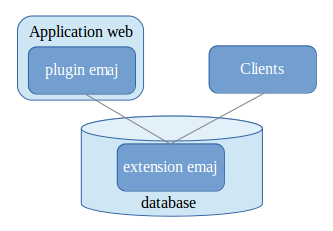
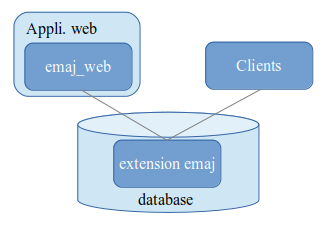
Doc: remove from the documentation all parts dealing with the use of the now deprecated phpPgAdmin plugin. Just mention its existence and the pointer to the related repo.

diff --git a/docs/fr/webUsage.rst b/docs/fr/webUsage.rst
@@ -1,22 +1,10 @@
-Utilisation des clients web
-===========================
-
-Accès à E-Maj dans l'interface phpPgAdmin
------------------------------------------
-
-Une fois connecté à une base de données dans laquelle l'extension E-Maj a été installée, et avec un rôle qui dispose des droits suffisants (super-utilisateur, *emaj_adm* ou *emaj_viewer*), une nouvelle icône rouge apparaît à droite dans la barre d'icônes horizontale de la base. Bien sûr, le schéma *emaj* figure dans la liste des schémas.
-
-Dans l'arborescence de gauche, un nouvel objet E-Maj apparaît également. Son ouverture permet de visualiser la liste des groupes de tables créés et d'accéder à l'un d'eux.
-
-.. figure:: images/ppa01.png
-   :align: center
-
-   Figure 1a – *phpPgAdmin* : connexion à une base de données où E-Maj est installé.
+Utilisation d'Emaj_web
+======================
 
 Accès à Emaj_web
 ----------------
 
-La connexion à une base de données est similaire à *phpPgAdmin*.
+Pour se connecter à une base de données, sélectionnez l’instance souhaitée dans l’arborescence de gauche et remplissez les identifiants et mots de passe de connexion. Plusieurs connexions peuvent rester ouvertes simultanément.
 
 Une fois connecté à une base de données dans laquelle l'extension E-Maj a été installée, et avec un rôle qui dispose des droits suffisants (super-utilisateur, *emaj_adm* ou *emaj_viewer*), l’icône rouge à droite dans la barre d'icônes horizontale de la base permet d’accéder aux fonctions spécifiques d’E-Maj.
 
@@ -25,7 +13,7 @@ Dans l'arborescence de gauche, l’objet E-Maj apparaît également. Son ouvertu
 .. figure:: images/web01.png
 	:align: center
 
-	Figure 1b – *Emaj_web* : connexion à une base de données où E-Maj est installé.
+	Figure 1 – Connexion à une base de données où E-Maj est installé.
 
 
 Liste des groupes de tables

diff --git a/docs/fr/webOverview.rst b/docs/fr/webOverview.rst
@@ -1,14 +1,11 @@
-Présentation générale des clients web
-=====================================
+Présentation générale d'Emaj_web
+================================
 
-Pour faciliter l'utilisation d'E-Maj, deux applications web sont disponibles :
+Une application web, **Emaj_web**, facilite l'utilisation d'E-Maj.
 
-* un « **plug-in** » pour l'outil d'administration **phpPgAdmin**, dans ses versions 5.1 et suivantes,
-* une application web indépendante, **Emaj_web**.
+Pour mémoire, un plugin pour *phpPgAdmin* existait également pour les versions d’E-Maj antérieures à la version 3.0. Mais il n’est plus maintenu depuis cette version.
 
-Les deux clients web offrent les mêmes fonctionnalités autour d’E-Maj, avec une interface utilisateur similaire.
-
-*Emaj_web* empreinte à *phpPgAdmin* son infrastructure (browser, barre d’icones, connexion aux bases de données,...) et quelques fonctions utiles telles que la consultation du contenu de tables ou la saisie de requêtes SQL.
+*Emaj_web* a empreinté à *phpPgAdmin* son infrastructure (browser, barre d’icones, connexion aux bases de données,...) et quelques fonctions utiles telles que la consultation du contenu de tables ou la saisie de requêtes SQL.
 
 Pour les bases de données dans lesquelles l'extension E-Maj a été installée, et si l'utilisateur est connecté avec un rôle qui dispose des autorisations nécessaires, tous les objets E-Maj sont visibles et manipulables.
 
@@ -19,4 +16,3 @@ Il est ainsi possible de :
 * voir la liste des marques posées pour un groupe de tables et effectuer toutes les actions possibles les concernant (suppression, renommage, rollback, ajout ou modification de commentaire),
 * obtenir toutes les statistiques sur le contenu des tables de log et en visualiser le contenu,
 * suivre les opérations de rollbacks en cours d'exécution.
-

diff --git a/docs/en/webUsage.rst b/docs/en/webUsage.rst
@@ -1,23 +1,10 @@
-Using the web clients
-=====================
-
-Accessing E-Maj from the phpPgAdmin interface
----------------------------------------------
-
-Once connected to a database where the E-Maj extension has been installed, and using a role having sufficient privileges (*super-user*, *emaj_adm* or *emaj_viewer*), a new red icon appears on the right in the horizontal database icons tab. Obviously, the *emaj* schema appears in schemas list.
-
-In the browser tree on the left, a new E-Maj object also appears. By opening it, the list of created tables groups becomes directly accessible.
-
-.. figure:: images/ppa01.png
-   :align: center
-
-   Figure 1a – *phpPgAdmin*: connection to a database where E-Maj is installed.
-
+Using Emaj_web
+==============
 
 Access to Emaj_web
 ------------------
 
-The connection to a database is similar to *phpPgAdmin*.
+To log on to a database, select the target instance in the left browser and fill the connection identifier and password. Several connections can remain opened simultaneously.
 
 Once connected to a database where the E-Maj extension has been installed, and using a role having sufficient privileges (*super-user*, *emaj_adm* or *emaj_viewer*), a red icon appears on the right in the horizontal database icons tab.
 
@@ -26,7 +13,7 @@ In the browser tree on the left, the E-Maj object also appears. By opening it, t
 .. figure:: images/web01.png
 	:align: center
 
-	Figure 1b – *Emaj_web*: connection to a database where E-Maj is installed.
+	Figure 1 – Connection to a database where E-Maj is installed.
 
 
 Tables groups list

diff --git a/docs/en/webOverview.rst b/docs/en/webOverview.rst
@@ -1,14 +1,11 @@
-Web clients overview
-====================
+Emaj_web overview
+=================
 
-To make E-Maj use easier, two web applications are also available:
+A web application, **Emaj_web**, makes E-Maj use easier.
 
-* a **plug-in for the phpPgAdmin** administration tool in its versions 5.1 and higher,
-* an independent web application, **Emaj_web**.
+For the records, a plugin for *phpPgAdmin* also existed. But it is not maintained any more since E-Maj 3.0.
 
-Both web clients provide the same functionalities with E-Maj, and have a very similar user interface.
-
-*Emaj_web* borrows to *phpPgAdmin* its infrastructure (browser, icon trails, database connection,  management,…) and some useful functions like browsing the tables content or editing SQL queries.
+*Emaj_web* has borrowed to *phpPgAdmin* its infrastructure (browser, icon trails, database connection,  management,…) and some useful functions like browsing the tables content or editing SQL queries.
 
 For databases into which the E-Maj extension has been installed, and if the user is connected with a role that owns the required rights, all E-Maj objects are accessible.
 

diff --git a/docs/fr/introduction.rst b/docs/fr/introduction.rst
@@ -37,7 +37,7 @@ E-Maj regroupe en fait plusieurs composants :
 
 * un objet PorstgreSQL **extension** créé dans chaque base de données, nommée emaj et contenant quelques tables, fonctions, séquences, ...
 * un ensemble de **clients externes** appelables en ligne de commande,
-* une **interface graphique web** sous la forme d’un plugin pour l’outil *phpPgAdmin*, ou d’une application indépendante, **Emaj_web**.
+* une **interface graphique web**, **Emaj_web**.
 
 Les clients externes et l’interface graphique font appel aux fonctions de l’extension emaj.
 
@@ -45,4 +45,3 @@ Les clients externes et l’interface graphique font appel aux fonctions de l’
    :align: center
 
 Tous ces composants sont décrits dans cette documentation.
-

diff --git a/docs/fr/install.rst b/docs/fr/install.rst
@@ -10,8 +10,9 @@ E-Maj et ses compléments sont également disponibles sur le site Internet **git
 
 * Composants sources (https://github.com/beaud76/emaj)
 * Documentation (https://github.com/beaud76/emaj_doc)
-* Plugin pour phpPgAdmin (https://github.com/beaud76/emaj_ppa_plugin)
 * Interface graphique Emaj_web (https://github.com/beaud76/emaj_web)
+
+Pour mémoire, un ancien dépôt (https://github.com/beaud76/emaj_ppa_plugin) contient un plugin pour *phpPgAdmin*. Il n’est plus maintenu à partir de la version 3.0 d’E-Maj.
 
 
 Installation standard sur Linux

diff --git a/docs/en/install.rst b/docs/en/install.rst
@@ -10,9 +10,9 @@ E-Maj and its add-ons are also available on the **github.org** Internet site:
 
 * source components (https://github.com/beaud76/emaj)
 * documentation (https://github.com/beaud76/emaj_doc)
-* plug-in for phpPgAdmin (https://github.com/beaud76/emaj_ppa_plugin)
 * Emaj_web GUI (https://github.com/beaud76/emaj_web)
 
+For the records, an old repository (https://github.com/beaud76/emaj_ppa_plugin) contains a plugin for phpPgAdmin. It is not maintained since E-Maj 3.0.
 
 Standart installation on Linux
 ******************************

diff --git a/docs/en/introduction.rst b/docs/en/introduction.rst
@@ -37,7 +37,7 @@ E-Maj actually groups several components:
 
 * a PostgreSQL **extension** object created into each database, named *emaj* and holding some tables, functions, sequences, ...
 * a set of **external clients** working in command line interface,
-* a **web GUI** as a plugin for the *phpPgAdmin* tool, or an independent web application, **Emaj_web**.
+* a web GUI, **Emaj_web**.
 
 The external clients and the GUI call the functions of the emaj extension.
 

diff --git a/docs/fr/index.rst b/docs/fr/index.rst
@@ -62,10 +62,9 @@ Bienvenue dans la documentation E-Maj !
 
 .. toctree::
    :maxdepth: 1
-   :caption: Clients web :
+   :caption: Emaj_web :
 
    webOverview
-   ppaPluginInstall
    webInstall
    webUsage
 

diff --git a/docs/en/index.rst b/docs/en/index.rst
@@ -62,10 +62,9 @@ Welcome to the E-Maj's documentation!
 
 .. toctree::
    :maxdepth: 1
-   :caption: Web clients:
+   :caption: Emaj_web:
 
    webOverview
-   ppaPluginInstall
    webInstall
    webUsage
 
